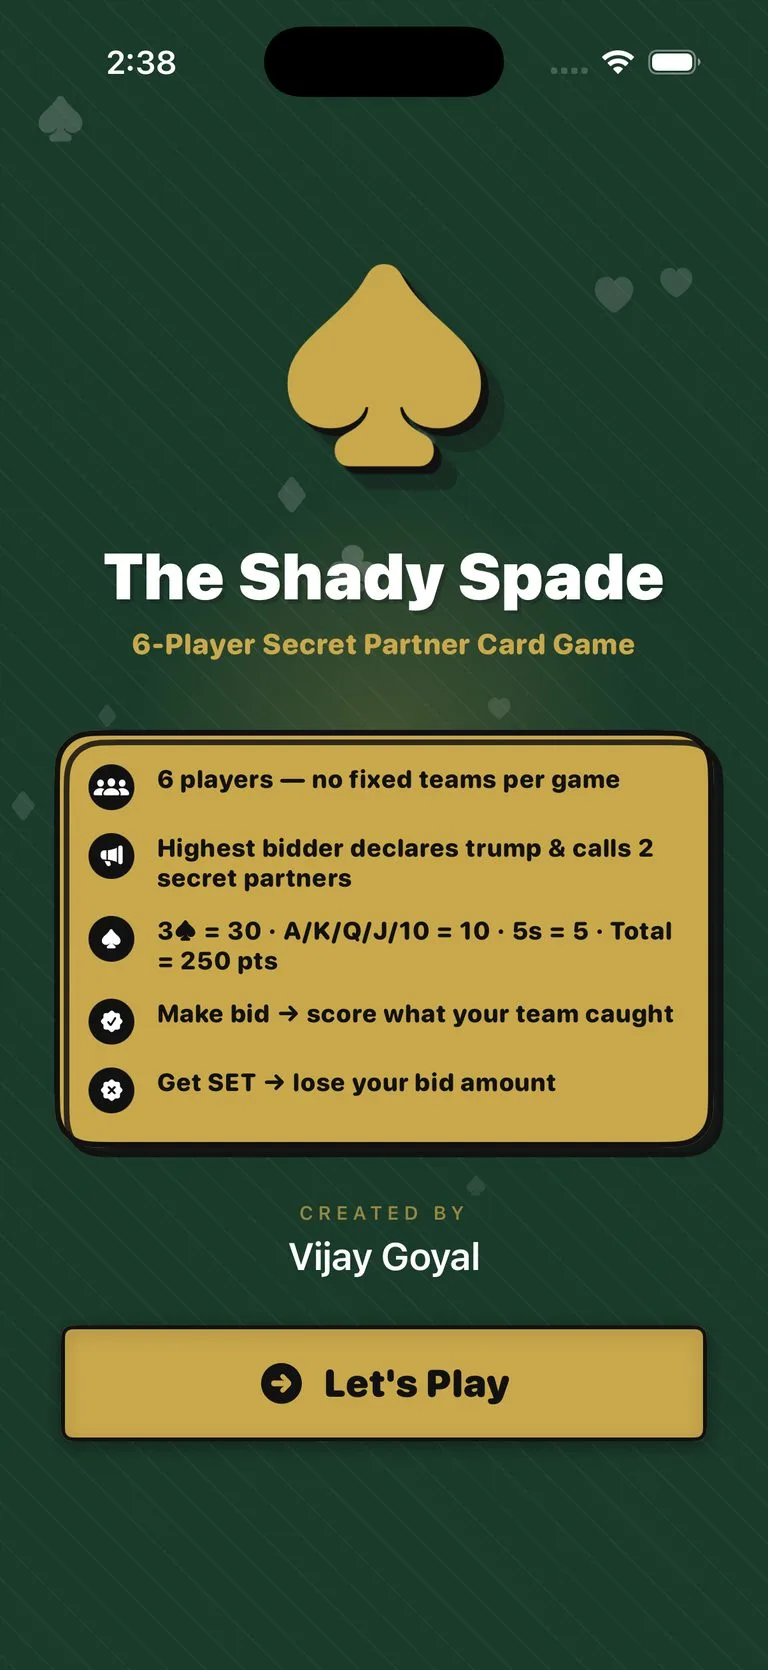
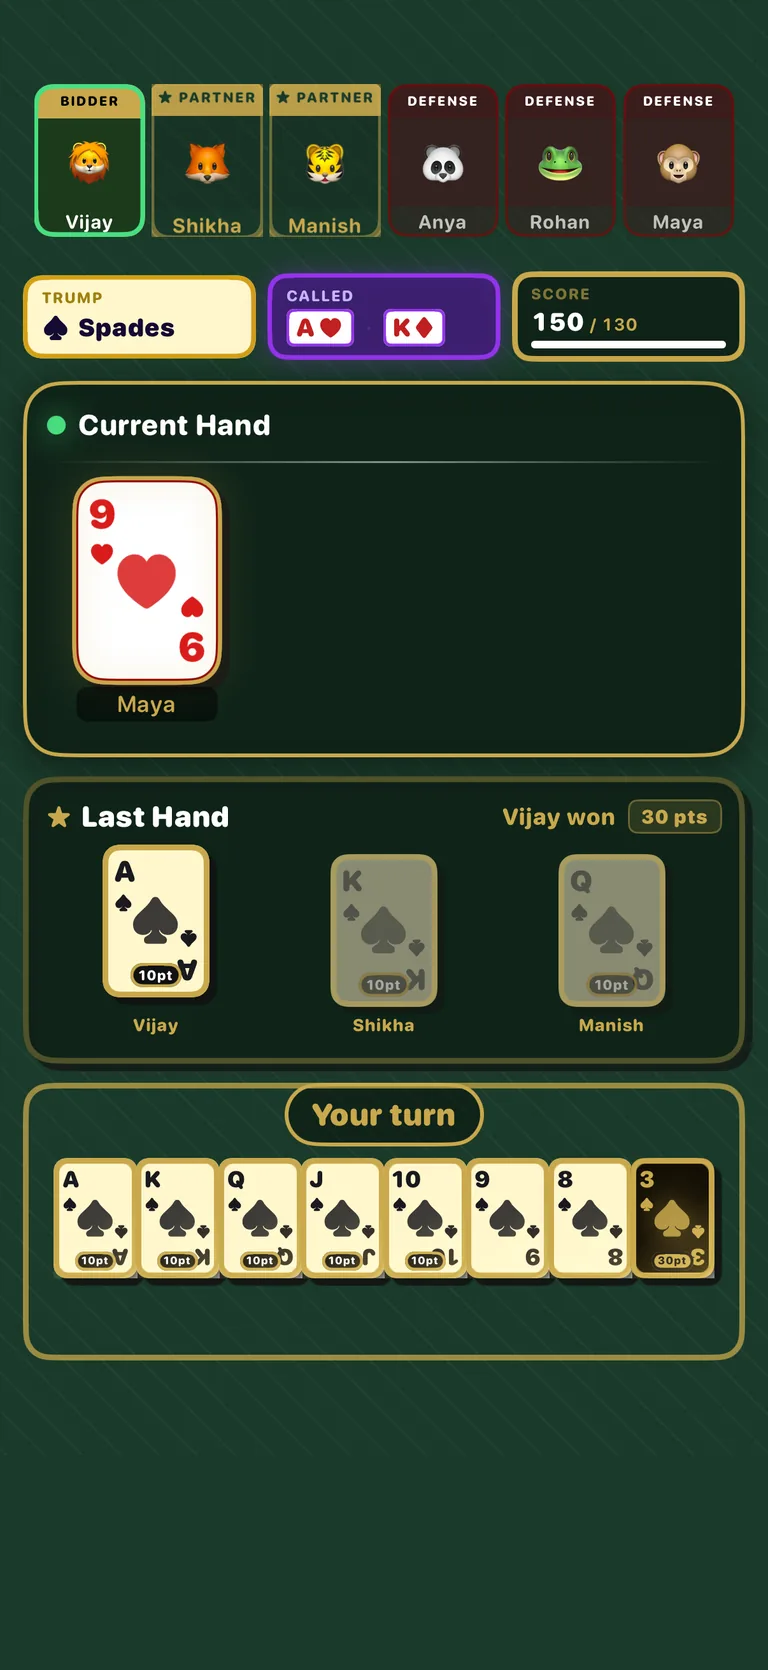
Shady Spade: show the game, not the title screen
The product image was the title screen -- logo, a rules card, a Let's Play
button. It showed the app before it does anything, and it repeated in pixels
what the paragraph beside it already says in words ("250 points on the table.
The three of spades alone is worth thirty").

Replaced with the playing screen, captured from the simulator via the app's own
UI-test gameplay catalog. It shows what the copy cannot:

  - six players marked BIDDER / PARTNER x2 / DEFENSE x3 -- the hidden-partner
    mechanic, which is the thing that makes the game unusual
  - trump, the two called cards, and the bidding team 150 points into a 130 bid
  - a completed trick ("Vijay won 30 pts") and a hand where the 3 of spades
    carries its 30pt badge -- the sentence beside it, made visible

Same 768x1670 the CSS aspect-ratio requires. The catalog's phase bar is cropped
off and the felt extended to restore that shape; the table already runs to the
bottom of the real screen, so nothing is invented. 61.4 kB, slightly smaller
than the 64.7 kB it replaces. Initial payload 65.64 -> 65.71 kB against a 120 kB
budget.

Alt text now describes the state rather than naming the screen.

Verification: 21 unit tests pass. Lighthouse 1.00 on all four categories across
three runs, LCP 1.6 s, CLS 0, TBT 0 ms.

diff --git a/src/sections/content.ts b/src/sections/content.ts
@@ -91,7 +91,7 @@ export const PRODUCTS: readonly Product[] = [
     ],
     facts: ["Swift · watchOS", "Bluetooth · Firebase", "v1.10 live · 192 tests"],
     screen: spadeScreen,
-    screenAlt: "The Shady Spade's title screen on an iPhone",
+    screenAlt: "The Shady Spade mid-hand on an iPhone: six players marked bidder, partner or defense, spades as trump, two called cards, and the bidding team 150 points into a 130 bid",
     links: [
       { href: LINKS.spadeAppStore, label: "App Store", name: "The Shady Spade on the App Store" },
       { href: LINKS.spadeSite, label: "shadyspade.vijaygoyal.org" },
